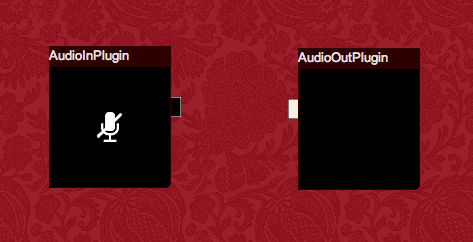
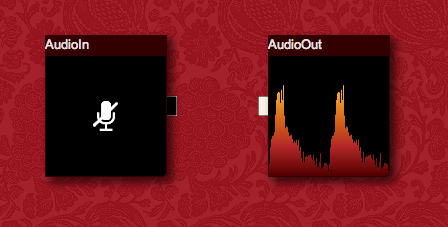
Added v0.1.3

Changed region(s): [[0.5625, 0.1542, 0.9062, 0.8326], [0.0938, 0.1542, 0.4062, 0.8326], [0.1875, 0.4317, 0.2812, 0.6167]]

diff --git a/k2h.html b/k2h.html
@@ -92,7 +92,7 @@
 			        <p>Open Audio Plugin Host, based on Web Audio API</p>
 			        
 			        
-			          <a href="http://bitterspring.net/k2h/" class="btn btn-success btn-large" target = "_blank"> Launch KievII Host <small>v0.1.2</small> <i class="icon-play icon-white"></i> </a>
+			          <a href="http://bitterspring.net/k2h/" class="btn btn-success btn-large" target = "_blank"> Launch KievII Host <small>v0.1.3</small> <i class="icon-play icon-white"></i> </a>
 			        
 			        <hr />
 			        <h6>Help KievII Host stay alive! Contribute with Paypal or Pledgie</h6>
@@ -134,9 +134,10 @@
 							<hr />
 							<p>These plugins are loaded as soon as KievII Host starts. They are slightly different from other plugins, because they're preloaded at start, there can be only one instance of them and they're persistent (you can't close them).</p>
 							<p>These plugins are not part of the plugin repository: they're implemented in the host (they're local) and are automatically loaded before all the other plugins.</p>
-							<p>They represent, respectively, the external audio source (for example, the microphone in in your sound card) and the final audio source (the speaker out of your soundcard). Every plugin, or chain of plugins, must be connected to the audio output plugin to actually hear its audio output(s), and every plugin that is connected to the audio in plugin will receive the external audio in stream in real time.</p>
+							<p>They represent, respectively, the external audio source (for example, the microphone in in your sound card) and the final audio destination (the speaker out of your soundcard).</p>
 							<p>In most browser, you can activate the Audio In plugin by allowing the browser to use the Web Audio Input (tipically, a message bar will be displayed by the browser, asking to allow the audio input and prompting the user to select which audio in has to be used). Depending on the version of the browser, you might need to <a href="http://www.phpied.com/webaudio-live-input/">enable Web Audio Input</a>.</p>
 							<p>If the Audio input plugin is not (yet) activated, the Audio Plugin will display a ticked-off microphone icon.</p>
+							<p>You can click on the Audio Out viewport to change the visualization mode (currently volume, frequency spectrum and none).</p>
 								
 						</div>
 		                <div class = "span6">
@@ -211,6 +212,18 @@
 		            </div>
 		            <div class="row-fluid section-row">
 						<div class = "span6 well">
+							<h2>Coding, right in the GUI</h2>
+							<hr />
+							<p>CodeEdit is a plugin that allows you to code directly your plugin. It is a one-input, one-output plugin that gives you an environment in which <code>this.source</code> and <code>this.dest</code> are the input and output <a href="https://dvcs.w3.org/hg/audio/raw-file/tip/webaudio/specification.html#AudioNode-section">nodes</a>, while <code>this.context</code> is the <a href="https://dvcs.w3.org/hg/audio/raw-file/tip/webaudio/specification.html#AudioContext-section">Web Audio context</a>. From there, you can code your effect or instrument right in the plugin GUI, or just experiment with Web Audio API. Just press Cmd-S to execute your code.</p>
+						</div>
+		                <div class = "span6">
+		                  <a href="#" class="thumbnail">
+		                    <img src="./assets/images/k2h/codeedit.png">
+		                  </a>
+		                </div>
+		            </div>
+		            <div class="row-fluid section-row">
+						<div class = "span6 well">
 							<h2>Mixing audio sources</h2>
 							<hr />
 							<p><a href="https://github.com/janesconference/KievIIPlugins/tree/master/plugins/KMX-001">KMX-001</a> is a simple mixer plugin, with 4 input channels. You can adjust the channel level with the sliders and the channel gains and trim with the corresponding knobs. You can also set the master output volume with the Master Volume knob.</p>
@@ -245,6 +258,18 @@
                         <div class = "span6">
                           <a href="#" class="thumbnail">
                             <img src="./assets/images/k2h/mstar.png">
+                          </a>
+                        </div>
+                    </div>
+		            <div class="row-fluid section-row">
+                        <div class = "span6 well">
+                            <h2>Matt Diamond's Drone</h2>
+                            <hr />
+                            <p>This is a K2 Plugin implementation of <a href="http://matt-diamond.com/">Matt Diamond</a>'s <a href="http://matt-diamond.com/drone.html">Javascript Drone</a>, modified to avoid interrupting sound while changing frequencies. I love drones and I loved Matt's implementation, so here's the plugin version.</p>
+                        </div>
+                        <div class = "span6">
+                          <a href="#" class="thumbnail">
+                            <img src="./assets/images/k2h/mddrone.png">
                           </a>
                         </div>
                     </div>
